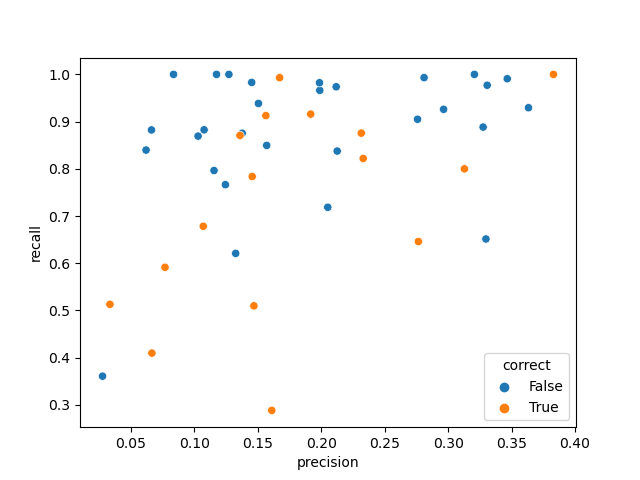
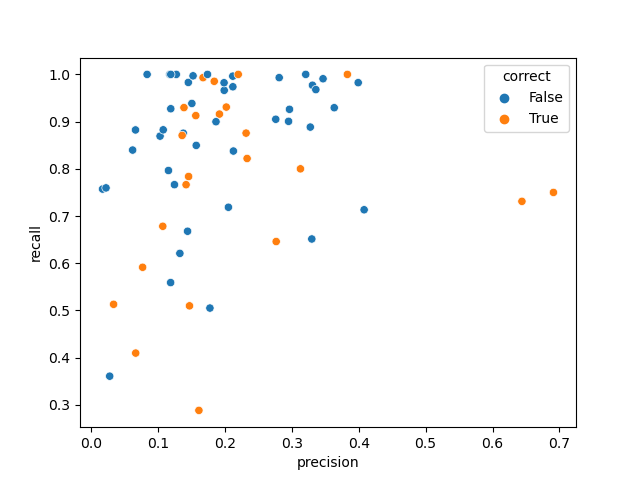
update

diff --git a/source/ligand_site/usage/analysis.py b/source/ligand_site/usage/analysis.py
@@ -5,7 +5,7 @@ import matplotlib.pyplot as plt
 import pandas as pd
 import seaborn as sns
 
-dir = 'testing'
+dir = 'results'
 
 arr_list = ['lig_true', 'lig_pred', 'recall', 'precision']
 
